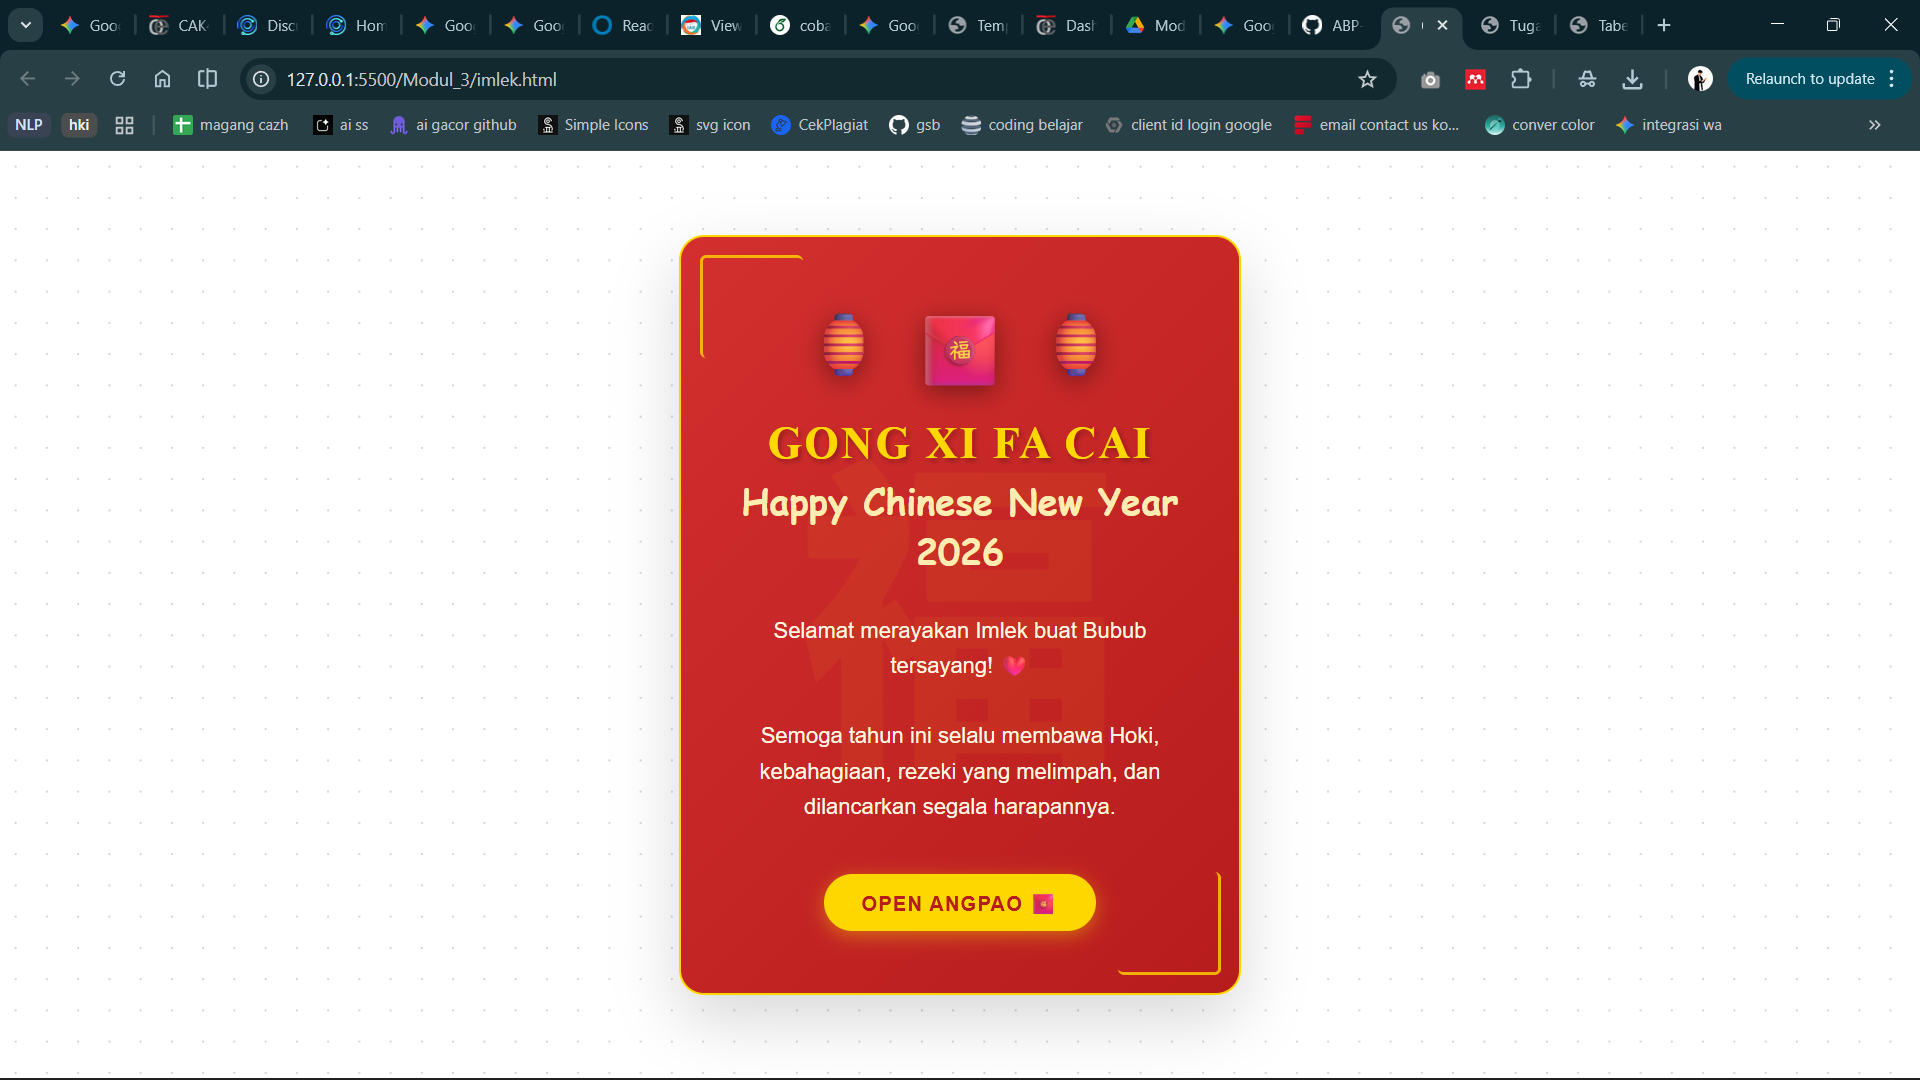
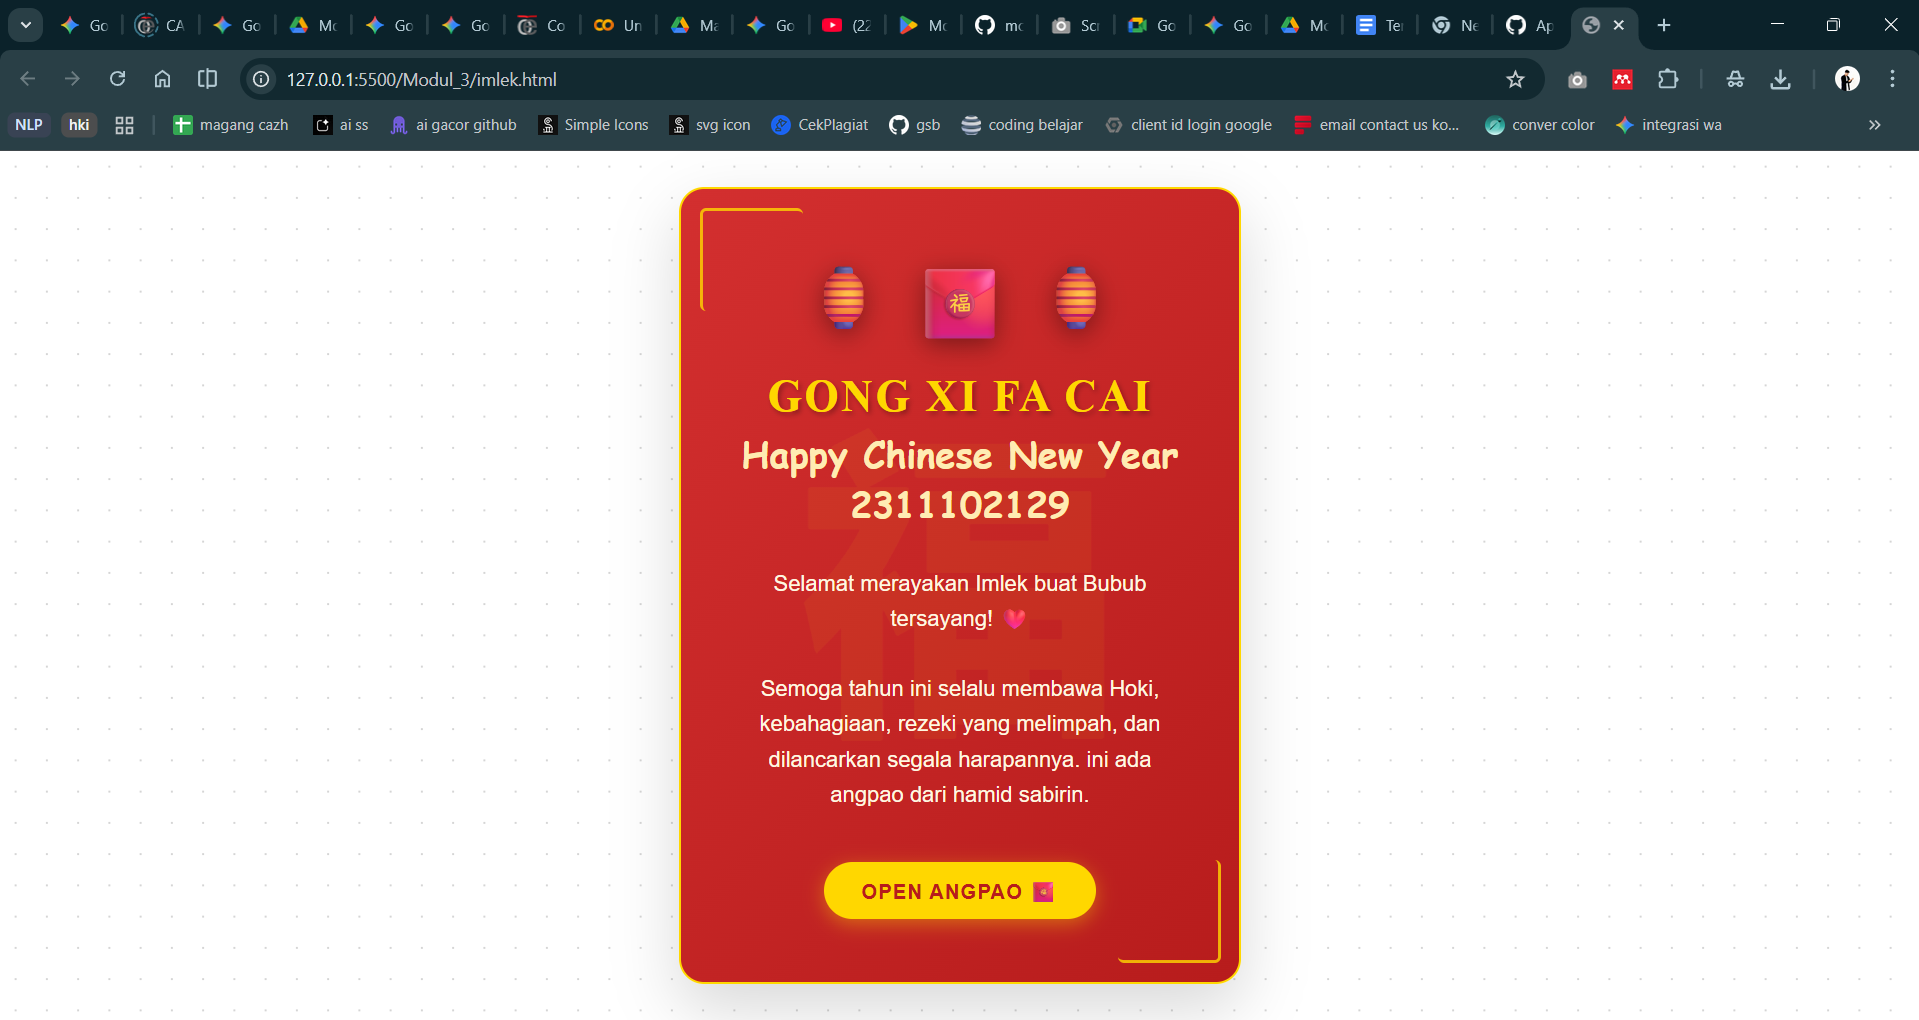
Modul3

Changed region(s): [[0.0, 0.0, 1.0, 0.152], [0.3382, 0.1824, 0.6456, 0.6382], [0.3382, 0.6686, 0.6456, 0.9725]]

diff --git a/Modul_3/imlek.html b/Modul_3/imlek.html
@@ -1,35 +1,34 @@
-<!DOCTYPE html>
+<!doctype html>
 <html lang="id">
-<head>
-    <meta charset="UTF-8">
-    <meta name="viewport" content="width=device-width, initial-scale=1.0">
+  <head>
+    <meta charset="UTF-8" />
+    <meta name="viewport" content="width=device-width, initial-scale=1.0" />
     <title>Gong Xi Fa Cai!</title>
-    <link rel="stylesheet" href="style.css">
-</head>
-<body>
-
+    <link rel="stylesheet" href="style.css" />
+  </head>
+  <body>
     <div class="card">
-        <div class="chinese-char">福</div>
-        
-        <div class="content-wrapper">
-            <div class="decoration">
-                <span class="lantern">🏮</span>
-                <span class="lantern">🧧</span>
-                <span class="lantern">🏮</span>
-            </div>
-            
-            <h1 class="title">Gong Xi Fa Cai</h1>
-            <div class="subtitle">Happy Chinese New Year 2026</div>
-            
-            <p class="message">
-                Selamat merayakan Imlek buat Bubub tersayang! ❤<br><br>
-                Semoga tahun ini selalu membawa Hoki, kebahagiaan, rezeki yang melimpah, dan dilancarkan segala harapannya.
-            </p>
+      <div class="chinese-char">福</div>
 
-
-            <a href="#" class="envelope">Open Angpao 🧧</a>
+      <div class="content-wrapper">
+        <div class="decoration">
+          <span class="lantern">🏮</span>
+          <span class="lantern">🧧</span>
+          <span class="lantern">🏮</span>
         </div>
-    </div>
 
-</body>
+        <h1 class="title">Gong Xi Fa Cai</h1>
+        <div class="subtitle">Happy Chinese New Year 2311102129</div>
+
+        <p class="message">
+          Selamat merayakan Imlek buat Bubub tersayang! ❤<br /><br />
+          Semoga tahun ini selalu membawa Hoki, kebahagiaan, rezeki yang
+          melimpah, dan dilancarkan segala harapannya. ini ada angpao dari hamid
+          sabirin.
+        </p>
+
+        <a href="#" class="envelope">Open Angpao 🧧</a>
+      </div>
+    </div>
+  </body>
 </html>

diff --git a/Modul_3/Modul-3__2311102129_Hamid-Sabirin.md b/Modul_3/Modul-3__2311102129_Hamid-Sabirin.md
@@ -50,39 +50,39 @@ Berikut ini adalah implementasi desain kartu ucapan yang digabungkan antara stru
 ### Kode HTML (`imlek.html`)
 
 ```html
-<!DOCTYPE html>
+<!doctype html>
 <html lang="id">
-<head>
-    <meta charset="UTF-8">
-    <meta name="viewport" content="width=device-width, initial-scale=1.0">
+  <head>
+    <meta charset="UTF-8" />
+    <meta name="viewport" content="width=device-width, initial-scale=1.0" />
     <title>Gong Xi Fa Cai!</title>
-    <link rel="stylesheet" href="style.css">
-</head>
-<body>
-
+    <link rel="stylesheet" href="style.css" />
+  </head>
+  <body>
     <div class="card">
-        <div class="chinese-char">福</div>
-        
-        <div class="content-wrapper">
-            <div class="decoration">
-                <span class="lantern">🏮</span>
-                <span class="lantern">🧧</span>
-                <span class="lantern">🏮</span>
-            </div>
-            
-            <h1 class="title">Gong Xi Fa Cai</h1>
-            <div class="subtitle">Happy Chinese New Year 2026</div>
-            
-            <p class="message">
-                Selamat merayakan Imlek buat Bubub tersayang! ❤<br><br>
-                Semoga tahun ini selalu membawa Hoki, kebahagiaan, rezeki yang melimpah, dan dilancarkan segala harapannya.
-            </p>
+      <div class="chinese-char">福</div>
 
-            <a href="#" class="envelope">Open Angpao 🧧</a>
+      <div class="content-wrapper">
+        <div class="decoration">
+          <span class="lantern">🏮</span>
+          <span class="lantern">🧧</span>
+          <span class="lantern">🏮</span>
         </div>
-    </div>
 
-</body>
+        <h1 class="title">Gong Xi Fa Cai</h1>
+        <div class="subtitle">Happy Chinese New Year 2311102129</div>
+
+        <p class="message">
+          Selamat merayakan Imlek buat Bubub tersayang! ❤<br /><br />
+          Semoga tahun ini selalu membawa Hoki, kebahagiaan, rezeki yang
+          melimpah, dan dilancarkan segala harapannya. ini ada angpao dari hamid
+          sabirin.
+        </p>
+
+        <a href="#" class="envelope">Open Angpao 🧧</a>
+      </div>
+    </div>
+  </body>
 </html>
 ```
 
@@ -225,8 +225,17 @@ body {
 
 ### Penjelasan code:
 
-- Pada baris **7** (`imlek.html`), HTML memanggil file CSS secara eksternal dengan *linking* pada berkas `style.css` yang memungkinkan elemen terhubungkan ke desain visual tanpa format atribut secara sebaris.
-- Pada baris **10-12** (`style.css`), properti di file CSS `display: flex; justify-content: center; align-items: center;` diaplikasikan di dalam elemen *class* `body`. Hal ini berguna secara otomatis akan memposisikan porsi struktur tag tata letak web simetris ada di tengah layang sumbu (baik di garis ukur lebar vertikal dan horizontalnya).
-- Pada baris **23-24** (`style.css`), properti perwarnaan visual pendukung `background: linear-gradient()` dipanggil guna memberikan efek gradasi halus rentang transisi warna campuran kemerahan, sedangkan sintaks `border-radius: 20px` mengatur tingkat proporsi lengkungan membulat di keempat sudut kontainer kartu utama antarmuka komponen kartu tersebut.
-- Pada baris **34-57** (`style.css`), penambahan penugasan pseudo-elemen CSS `::before` & `::after` secara manual digunakan untuk memberikan slot fungsi injeksi ornamen estetik bingkai kuning pada area pinggir luar komponen `.card` yang dikendalikan khusus tanpa perlu campur tangan di dalam baris file html nya (*markup HTML tetap *clean* tanpa serakan span kosongan*).
-- Pada baris **102-113** (`style.css`), properti parameter `position: absolute;` disetel menetap ke struktur `chinese-char` dengan dorongan penempat posisi tengah (`transform: translate(-50%, -50%);`) agar bayangan penokohan huruf mandarin dapat tepat berada presisi sentral di tengah bingkai layar kartu nya. Modul paramater `pointer-events: none;` bertugas menonaktifkan klik mouse di area seleksi khusus tulisan itu sehingga sub elemen teks itu tidak akan menenggelamkan fungsi bagian atas elemen pembaca kartu.
+#### 1. HTML 
+- Pada baris **7**, tag `<link>` digunakan untuk menghubungkan file HTML ini dengan file eksternal `style.css` agar kode *styling*-nya lebih rapi karena dipisah di file berbeda.
+- Pada baris **9-12**, tag `<div>` berfungsi sebagai pembungkus (*container*) untuk elemen-elemen di dalamnya. Atribut `class` (seperti `card` atau `content-wrapper`) ditambahkan supaya elemen tersebut lebih mudah diatur desainnya dari CSS.
+- Pada baris **14-16**, tag `<span>` digunakan untuk membungkus emoji lampion. Karena `<span>` bersifat *inline*, emoji lampionnya bisa berjajar rapi ke samping tanpa membuat baris baru.
+- Pada baris **19-22**, tag `<h1>` digunakan untuk membuat teks judul utama agar ukurannya paling besar. Untuk teks isi ucapannya memakai tag `<p>` (paragraf), dengan tambahan tag `<br />` untuk membuat baris baru (seperti *Enter*).
+- Pada baris **29**, tag `<a>` dipakai untuk membuat tombol interaktif "Open Angpao". Atribut `href="#"` ditambahkan supaya tombolnya bisa diklik tanpa harus pindah ke halaman URL lain.
+
+#### 2. Styling CSS (`style.css`)
+- Pada baris **10-12**, properti `display: flex; justify-content: center; align-items: center;` diaplikasikan di dalam *class* elemen `body`. Hal ini berguna secara otomatis memposisikan porsi struktur tag tata letak web simetris di tengah layar sumbu (baik vertikal maupun horizontal).
+- Pada baris **23-24**, properti pewarnaan visual pendukung `background: linear-gradient()` dipanggil guna memberikan efek gradasi halus rentang transisi warna campuran kemerahan. Sedangkan sintaks `border-radius: 20px` mengatur tingkat proporsi lengkungan membulat di keempat sudut kontainer kartu utama antarmuka komponen.
+- Pada baris **34-57**, penambahan penugasan pseudo-elemen CSS `::before` & `::after` secara manual digunakan untuk memberikan slot fungsi injeksi ornamen estetik bingkai kuning pada area pinggir luar komponen `.card`. Ini dikendalikan khusus tanpa perlu campur tangan di dalam baris file HTML (*markup HTML tetap clean tanpa serakan span kosong*).
+
+## Refrensi
+- [Materi Modul 3](https://drive.google.com/file/d/1kd7ogQkR_rsNCnKDcJDmavY8FiOyTLzs/view?usp=sharing)
